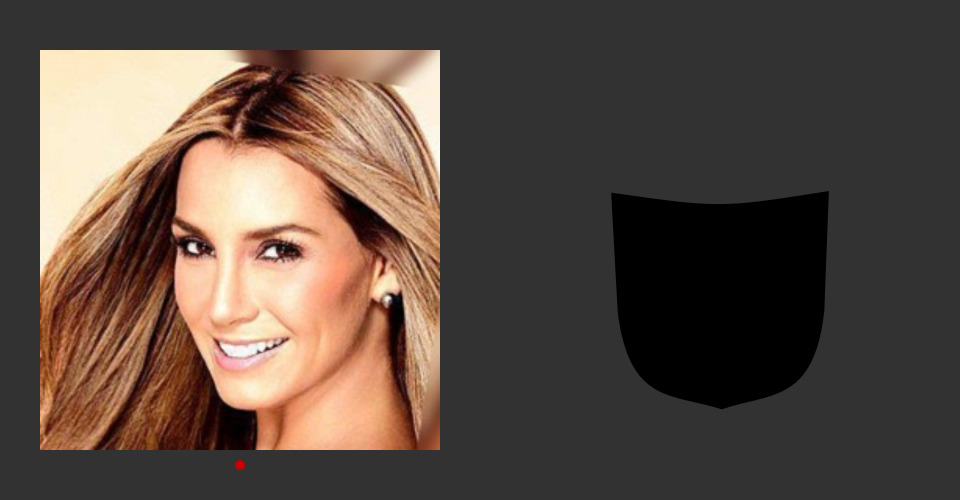
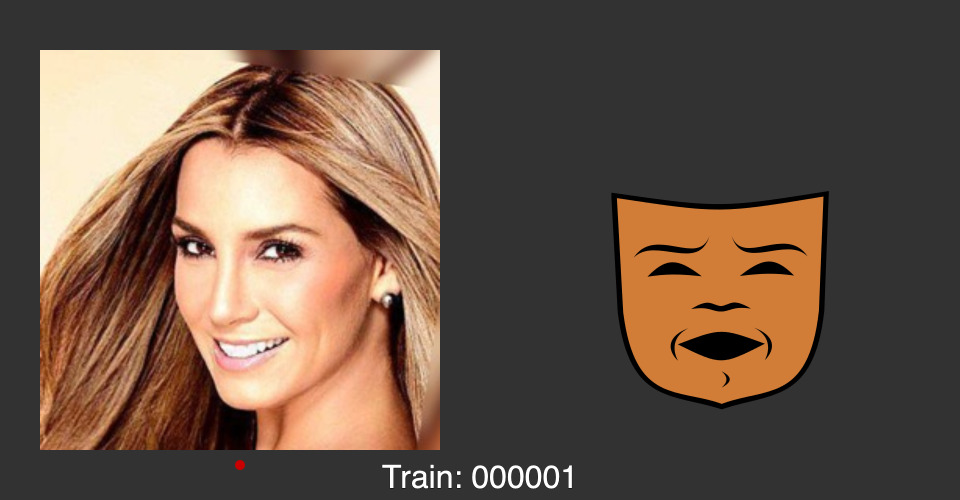
Bugs be gone.

Changed region(s): [[0.625, 0.39, 0.875, 0.81], [0.4062, 0.93, 0.5938, 0.99]]

diff --git a/face.js b/face.js
@@ -7,7 +7,7 @@
 var DEBUG_MODE = true;
 
 // this can be used to set the number of sliders to show
-var NUM_SLIDERS = 3;
+var NUM_SLIDERS = 12;
 
 // other variables can be in here too
 // here's some examples for colors used
@@ -43,7 +43,9 @@ function Face() {
   this.upperLip = -1.5;
   this.lowerLip = -3;
   this.tilt_value = 0;
+  this.color_value = 1
 
+  // color_value
 
   // Colours
   this.Brown_1 = color('#ffa257');
@@ -196,7 +198,7 @@ function Face() {
       vertex(-3, 2.5);
         bezierVertex(-(this.cornerX +5), (this.cornerY +2.25), -(this.cornerX +5), (this.cornerY +3.5), -(this.cornerX +4), (this.cornerY +4.5));
         bezierVertex(-(this.cornerX +4.5), (this.cornerY +3.5), -(this.cornerX +4.5), (this.cornerY +2.25), -3, 2.5);
-    endShape();   this.
+    endShape();
 
     beginShape();
       vertex(3, 2.5);
@@ -205,7 +207,7 @@ function Face() {
     endShape();
 
     // Chin Detail * not drawn if lower lip/mouth corners are too far down.
-    if(mouthCorners == 2 && lowerLip <= -2.4){
+    if(this.mouthCorners == 2 && this.lowerLip <= -2.4){
       noStroke(0);
       fill(0);
 
@@ -216,7 +218,7 @@ function Face() {
       endShape();
     }
 
-    else if(mouthCorners <= 1.90 && lowerLip <= -1.6) {
+    else if(this.mouthCorners <= 1.90 && this.lowerLip <= -1.6) {
       noStroke(0);
       fill(0);
 
@@ -242,6 +244,7 @@ function Face() {
     this.upperLip = map(settings[8], 0, 100, -2.5, 0);
     this.lowerLip = map(settings[9], 0, 100, -5, 0);
     this.tilt_value = map(settings[10], 0, 100, -20, 20);
+    this.color_value = int(map(settings[11], 0, 100, 0, 4));
 
   }
 
@@ -260,11 +263,13 @@ function Face() {
     settings[8] = map(this.upperLip, -2.5, 0, 0, 100);
     settings[9] = map(this.lowerLip, -5, 0, 0, 100);
     settings[10] = map(this.tilt_value, -20, 20, 0, 100);
+    settings[11] = int(map(this.color_value, 0, 4, 0, 100));
 
     return settings;
   }
 }
 
+// colorChoice
 
   // this.detailColour = [204, 136, 17];
   // this.mainColour = [51, 119, 153];

diff --git a/index.html b/index.html
@@ -79,7 +79,7 @@
                     <td>setting 8</td>
                     <td id="slider8Container"></td>
                 </tr>
-                <!-- YOU CAN ADD MORE SLIDERS HERE, LIKE THIS
+                <!-- <!-- YOU CAN ADD MORE SLIDERS HERE, LIKE THIS -->
                 <tr>
                     <td>setting 9</td>
                     <td id="slider9Container"></td>

diff --git a/README.md b/README.md
@@ -2,4 +2,8 @@
 [![Open in Visual Studio Code](https://classroom.github.com/assets/open-in-vscode-718a45dd9cf7e7f842a935f5ebbe5719a5e09af4491e668f4dbf3b35d5cca122.svg)](https://classroom.github.com/online_ide?assignment_repo_id=11103455&assignment_repo_type=AssignmentRepo)
 ## 2023 MDDN342 Assignment 3: Data Mappings
 
-Have transferred my code over from Project 2 but am currently experiencing a lot of bugs, so majority of it is not currently functional.
+Fixed up the bugs that were going on with my project 2 code. Turns out it was to do with the variables: 
+1) Forgetting to define the colour changing variable.
+2) Forgetting to add this. to some of the if statement variables.
+
+After getting those sorted, things were back up and running smoothly, so I added in the last of my sliders as well.
